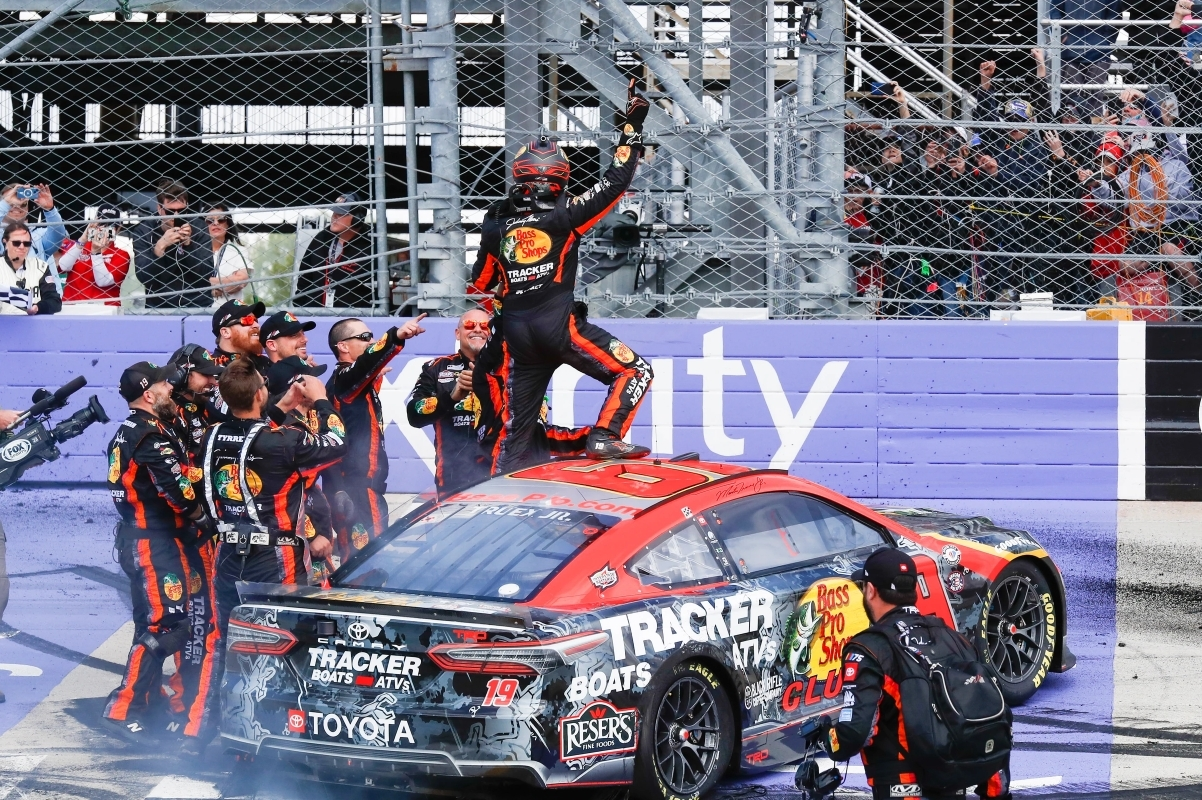
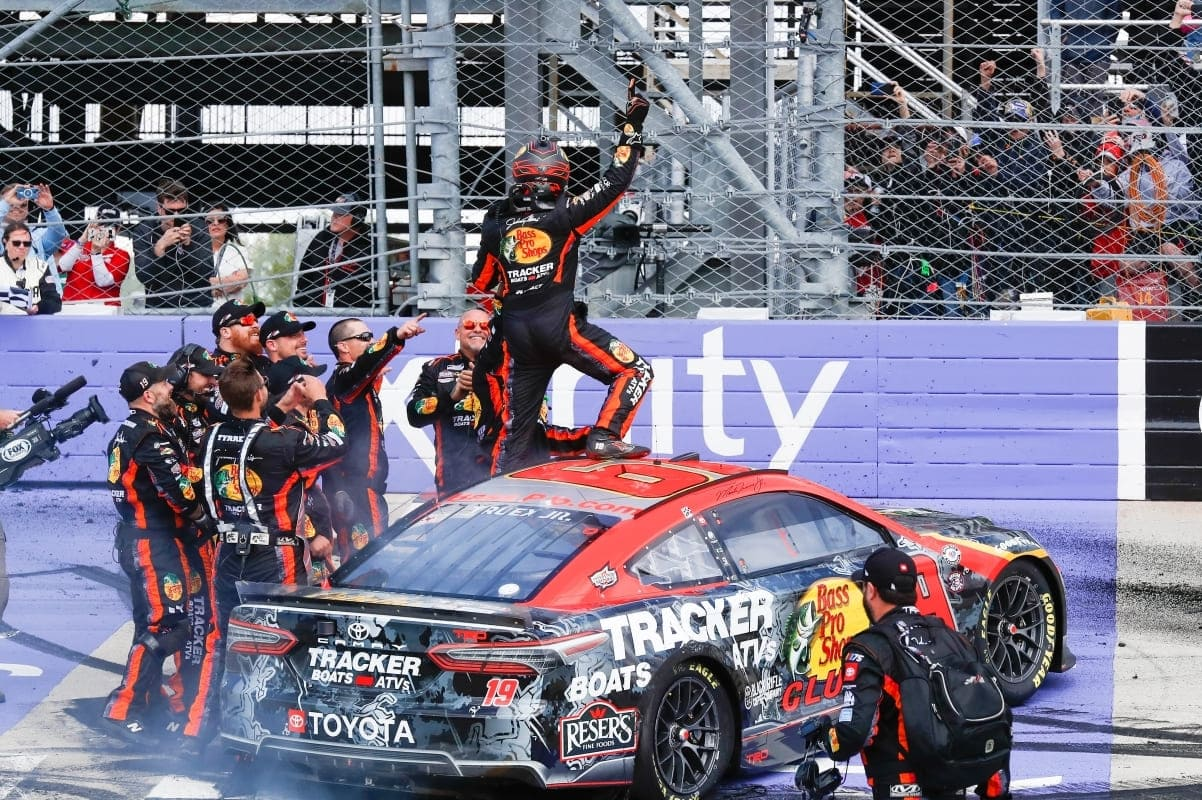
Se cambiaron los formatos de los archivos png que podian ser pasados a jpg para reducir su tamaño, y se comprimieron todas las imagenes que eran pesadas.

diff --git a/notas/nota-nascar3.html b/notas/nota-nascar3.html
@@ -86,7 +86,7 @@
                         la Ford F-150 #38 del Front Row Motorsports.
 
                     <div class="image-container">
-                        <img src="../imgs/kansas3.png" alt="Nigel Kinrade / NKP / Motorsports Images">
+                        <img src="../imgs/kansas3.jpg" alt="Nigel Kinrade / NKP / Motorsports Images">
                     </div>
                     <p> Los horarios para estas carreras serán:<br><br>
                         Sábado - 06/05<br><br>

diff --git a/notas/nota-nascar1.html b/notas/nota-nascar1.html
@@ -93,7 +93,7 @@
                         Camaro #7 del JR Motorsports <br><br> </p>
 
                         <div class="image-container">
-                            <img src="../imgs/darlington3.png" alt="">
+                            <img src="../imgs/darlington3.jpg" alt="">
                         </div>
                         <p> Los horarios para estas carreras serán: <br><br>
 
